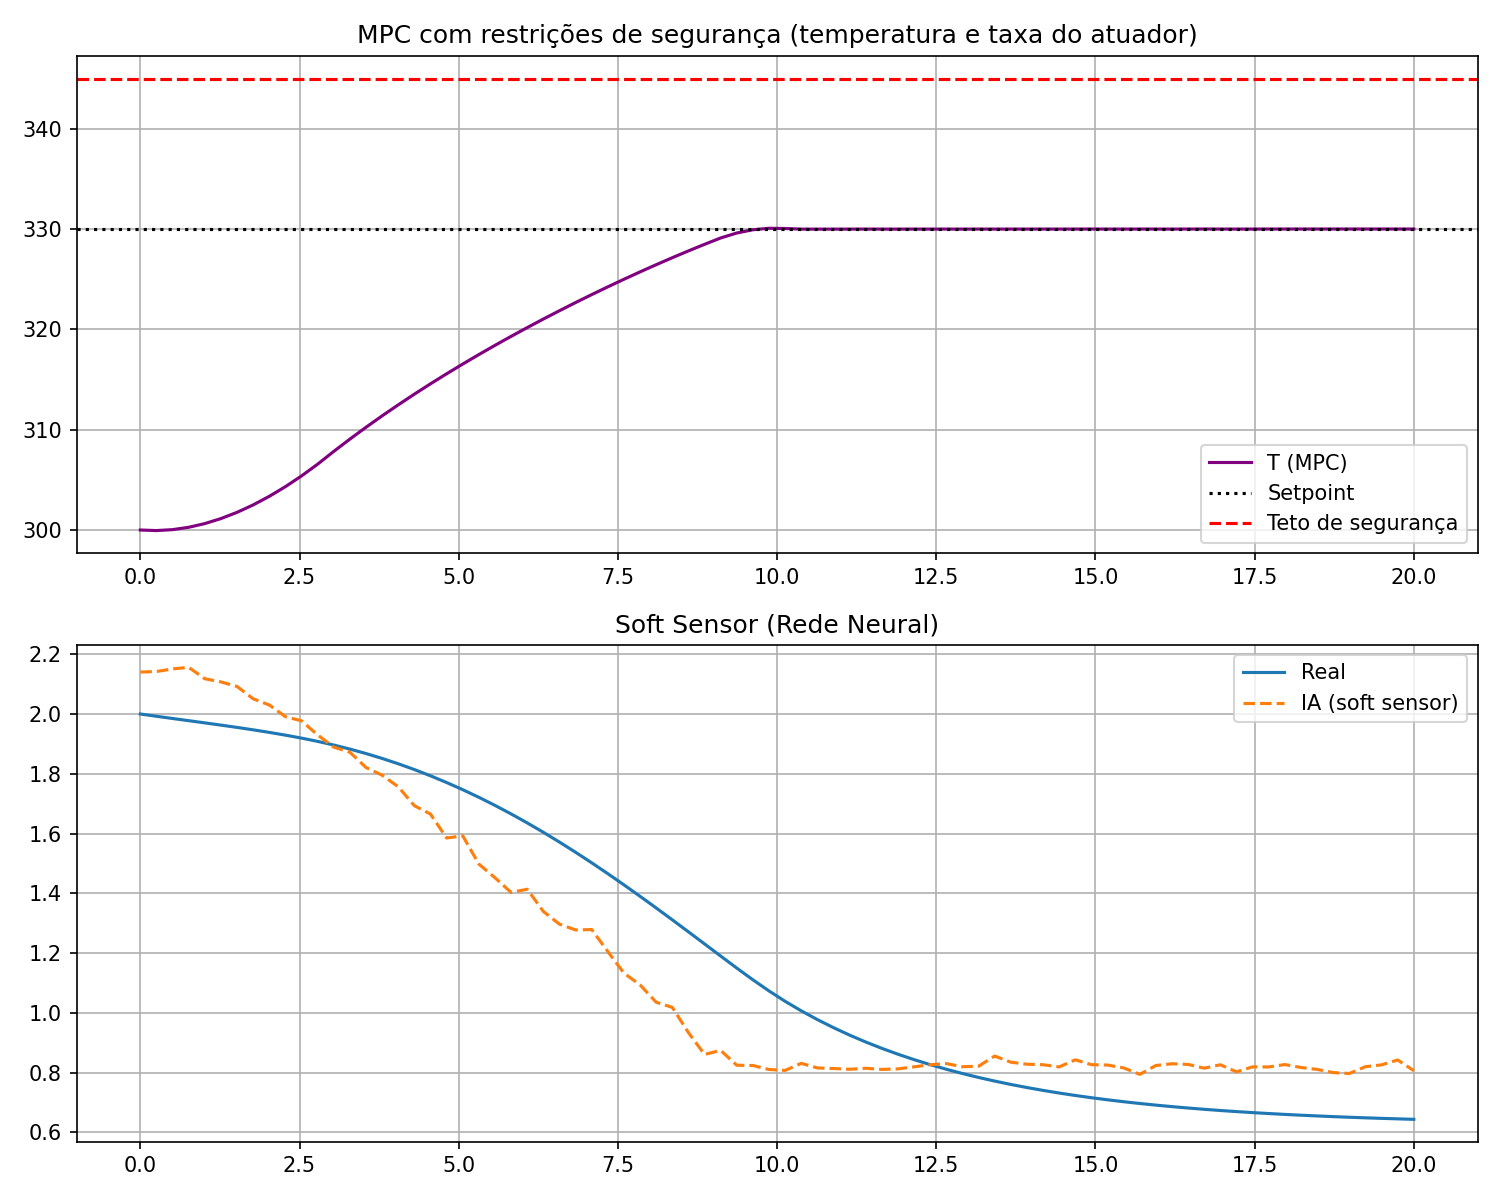
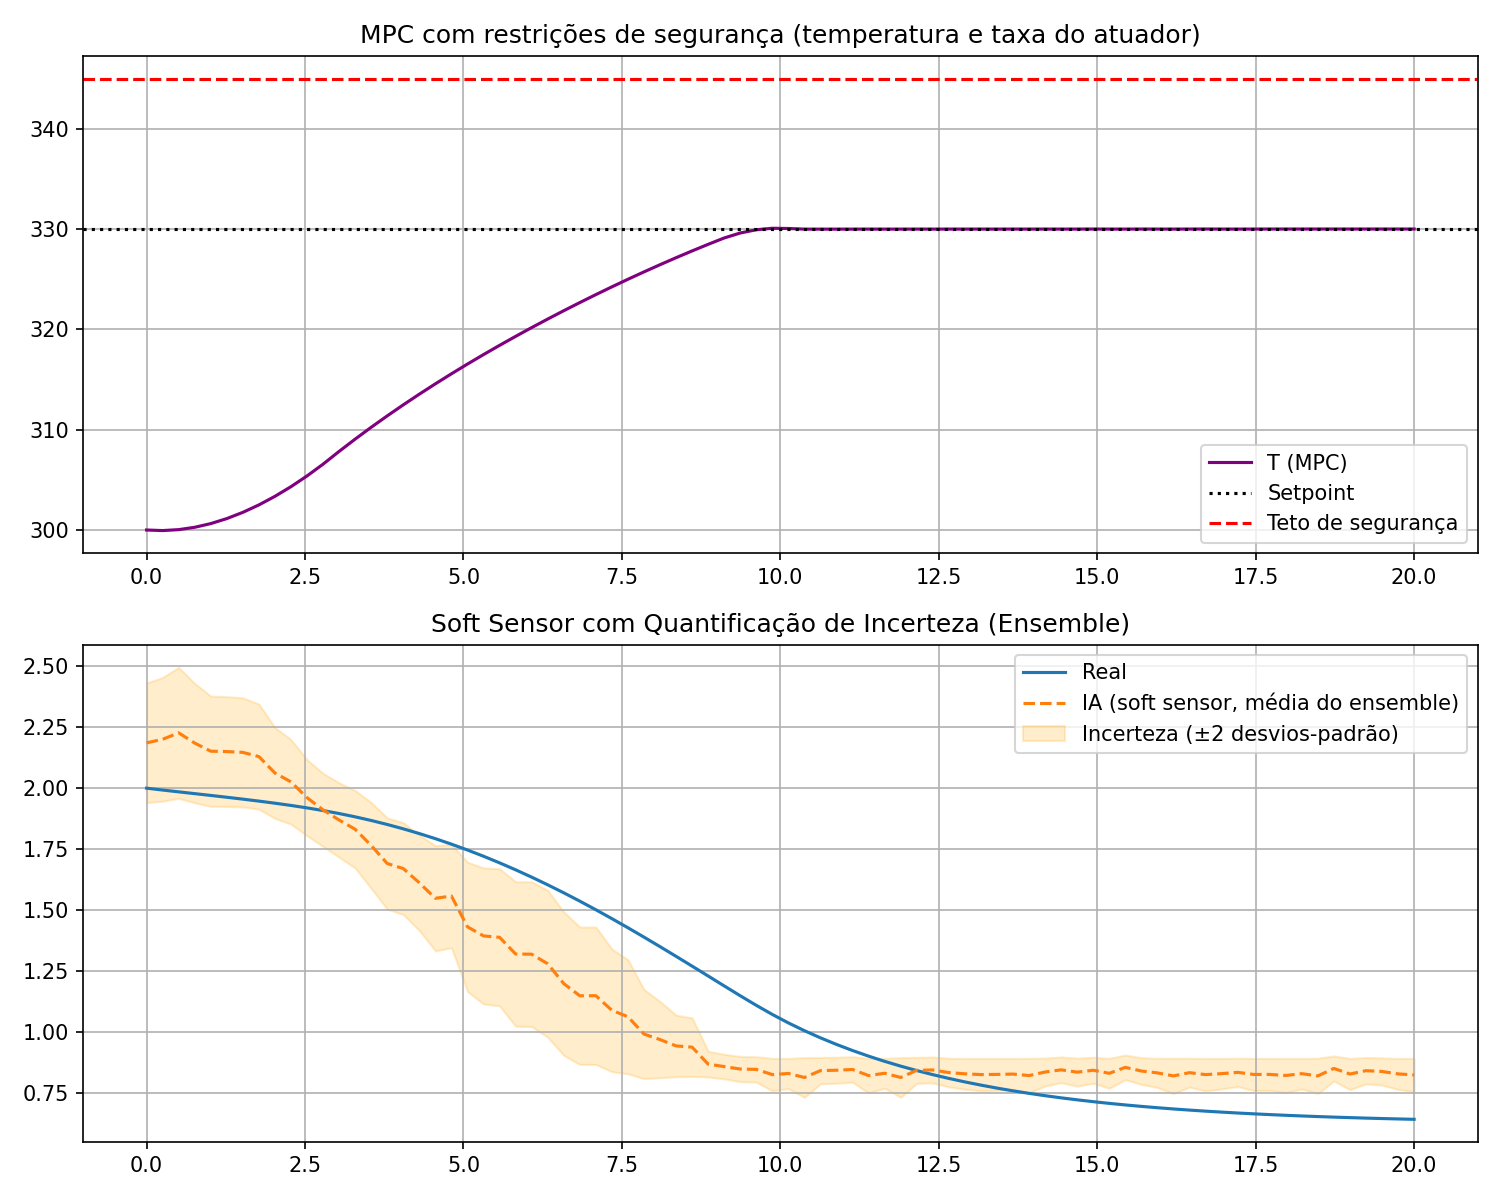
Adiciona quantificação de incerteza ao soft sensor (ensemble bootstrap)
Continuação da análise de demandas reais: literatura recente de soft
sensors (2025) aponta "uncertainty-awareness" como lacuna importante
em sensores virtuais usados na indústria — um valor pontual sem
indicação de confiança pode levar a decisões erradas quando o modelo
está extrapolando.

- Troca a rede neural única por um ensemble de 15 MLPs treinadas em
  reamostragens bootstrap dos dados; a dispersão entre elas vira uma
  banda de incerteza (±2 desvios-padrão) em vez de só uma previsão
  pontual de C_A.
- README atualizado para descrever o ensemble e a banda de incerteza.

diff --git a/main.py b/main.py
@@ -249,9 +249,20 @@ if __name__ == "__main__":
     X_scaled = scaler.fit_transform(X_dados)
     X_train, X_test, y_train, y_test = train_test_split(X_scaled, hist_CA_mpc, test_size=0.2, random_state=42)
 
-    ia_sensor = MLPRegressor(hidden_layer_sizes=(15, 10), max_iter=2000, random_state=42)
-    ia_sensor.fit(X_train, y_train)
-    concentracao_predita = ia_sensor.predict(X_scaled)
+    # Ensemble via bootstrap: em vez de uma única rede, treina várias em reamostragens dos
+    # dados e usa a dispersão entre elas como estimativa de incerteza (soft sensor
+    # "uncertainty-aware"), para sinalizar quando a estimativa de C_A é pouco confiável.
+    n_ensemble = 15
+    rng = np.random.default_rng(42)
+    preds_ensemble = np.zeros((n_ensemble, len(X_scaled)))
+    for m in range(n_ensemble):
+        idx_boot = rng.integers(0, len(X_train), size=len(X_train))
+        modelo = MLPRegressor(hidden_layer_sizes=(15, 10), max_iter=2000, random_state=m)
+        modelo.fit(X_train[idx_boot], y_train[idx_boot])
+        preds_ensemble[m] = modelo.predict(X_scaled)
+    concentracao_predita = preds_ensemble.mean(axis=0)
+    concentracao_incerteza = preds_ensemble.std(axis=0)
+    print(f"📈 Soft sensor: incerteza média (±1 desvio-padrão do ensemble) = {concentracao_incerteza.mean():.3f} mol/L")
 
     print("🔎 Executando cenário de fouling com detecção de falha...")
     t3, T_falha, Tj_falha, UA_real_falha, residuo_falha, tempo_deteccao = reator.rodar_mpc_com_deteccao_falha()
@@ -286,8 +297,11 @@ if __name__ == "__main__":
     axs2[0].legend(); axs2[0].grid(True)
 
     axs2[1].plot(t2, hist_CA_mpc, label='Real')
-    axs2[1].plot(t2, concentracao_predita, '--', label='IA (soft sensor)')
-    axs2[1].set_title('Soft Sensor (Rede Neural)')
+    axs2[1].plot(t2, concentracao_predita, '--', label='IA (soft sensor, média do ensemble)')
+    axs2[1].fill_between(t2, concentracao_predita - 2 * concentracao_incerteza,
+                          concentracao_predita + 2 * concentracao_incerteza,
+                          color='orange', alpha=0.2, label='Incerteza (±2 desvios-padrão)')
+    axs2[1].set_title('Soft Sensor com Quantificação de Incerteza (Ensemble)')
     axs2[1].legend(); axs2[1].grid(True)
     fig2.tight_layout(); fig2.savefig('mpc_softsensor.png', dpi=150)
 

diff --git a/README.md b/README.md
@@ -49,8 +49,8 @@ Avaliação de risco em malha aberta demonstrando como uma queda de eficiência 
 
 ![Estabilidade e Runaway Térmico](estabilidade_runaway.png)
 
-### 2. Controle Preditivo (MPC) e Soft Sensor (Rede Neural)
-Desempenho da malha fechada mantendo o reator no setpoint estipulado ($330\text{ K}$) enquanto a Rede Neural (MLP) estima a concentração de saída $C_A$ em tempo real com alta precisão:
+### 2. Controle Preditivo (MPC) e Soft Sensor com Incerteza (Ensemble)
+Desempenho da malha fechada mantendo o reator no setpoint estipulado ($330\text{ K}$) enquanto um ensemble de 15 Redes Neurais (MLP, treinadas por bootstrap) estima a concentração de saída $C_A$ em tempo real. A dispersão entre as redes do ensemble fornece uma banda de incerteza (±2 desvios-padrão) — sinalizando quando a estimativa é menos confiável, em vez de só um valor pontual:
 
 ![Desempenho do MPC e Soft Sensor](mpc_softsensor.png)
 
